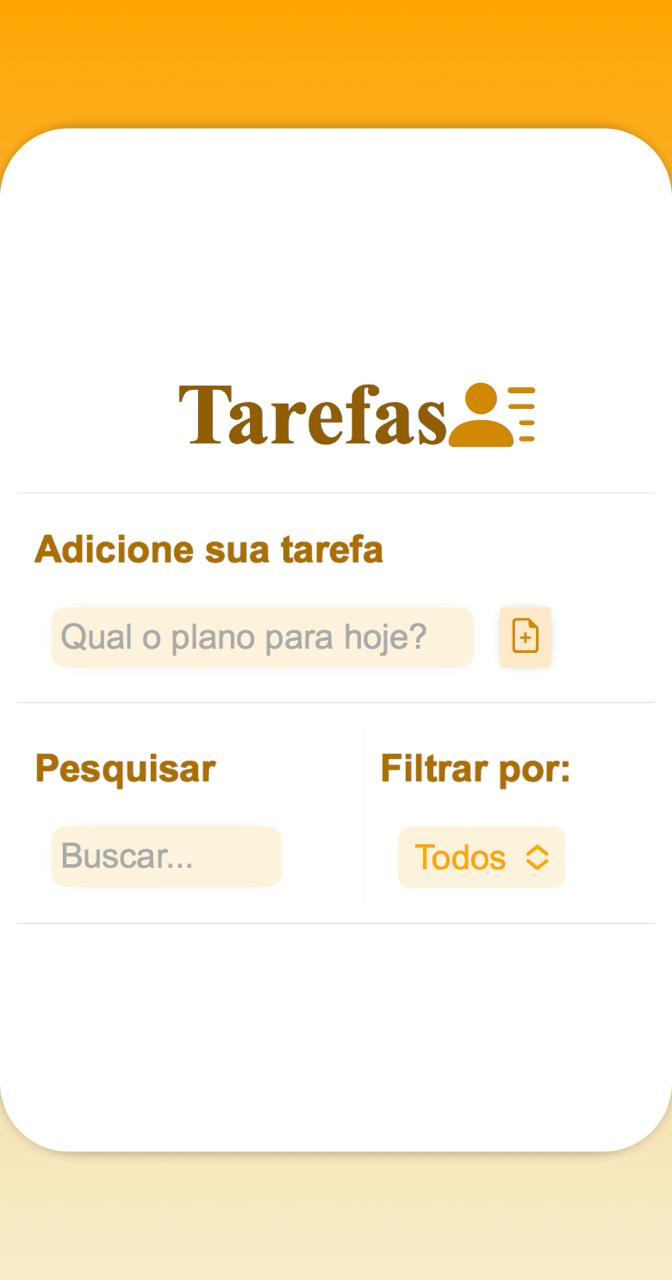
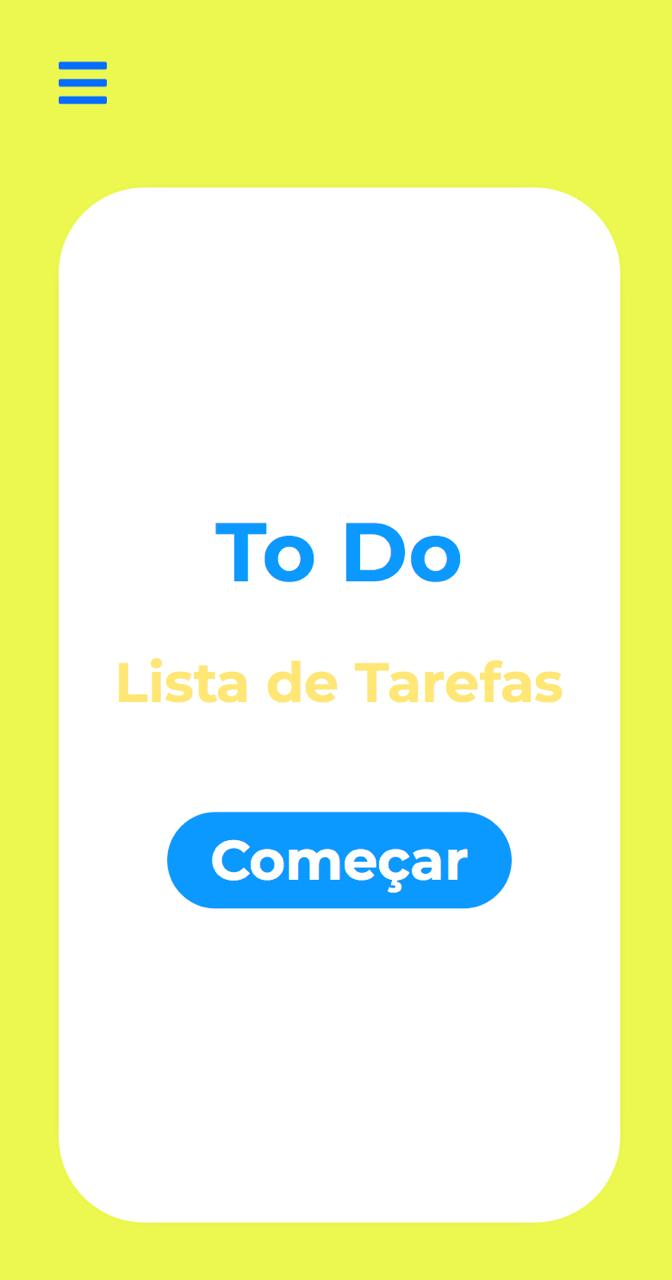
up

diff --git a/index.html b/index.html
@@ -171,9 +171,9 @@
                         </div>
                     </a>
                     
-                    <a href="https://to-do-pi-ruby.vercel.app/" target="_blank" class="scroll-prog">
+                    <a href="https://lista-tarefas-react-js.vercel.app/" target="_blank" class="scroll-prog">
                         <div class="imagem-portfolio" style="background-image: url(images/ToDo.png);">
-                            <div class="overlay">Tarefas</div>
+                            <div class="overlay">Lista deTarefas</div>
                         </div>
                     </a>
                     
